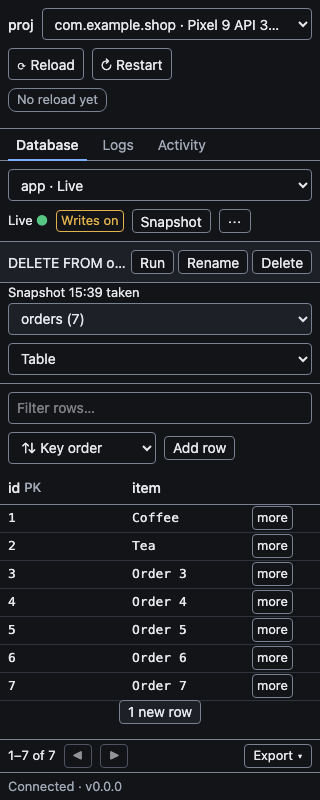
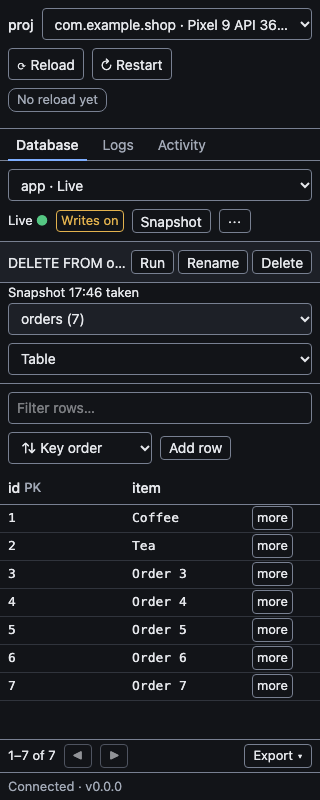
docs(qa): re-verify batch 4 database tab fixes on 0682dec

diff --git a/docs/qa/M3.md b/docs/qa/M3.md
@@ -618,9 +618,43 @@ No new JSON-RPC fixture. The Drift calls had the same shapes as `flutterdeck-dri
 - The Browser pane at 420 px through the tool emulates an Android phone (user agent, touch). There, Cmd/Ctrl+Enter and Cmd/Ctrl+A inserted a line break instead of running. At the pane's own desktop width (Mac user agent) they worked. A real narrow pane on the PM's Mac has a Mac user agent, so this is a tool limit, not a product fault; it was not observed directly.
 - Device picker with two devices (one emulator only), and the iOS simulator (not in this batch's brief).
 
+### Re-run on `0682dec` (2026-10-17)
+
+Same environment and worktree, commit **`0682dec`**, clean tree. Fake mode only (a scratch daemon from `qa-artifacts/M3-batch4/fake-daemon.mjs`, writes on, scratch HOME). No Android run: the fixes are in the dashboard, plus G4 and the fake cap in the daemon. Video: `qa-artifacts/M3-batch4/videos/b4-rerun-fake-mode-15-steps.webm`.
+
+| #    | Check                                                              | Tool                                                                          | Result     | Evidence                                                                                                                                                                                                                                                                                                                                                                              |
+| ---- | ------------------------------------------------------------------ | ----------------------------------------------------------------------------- | ---------- | ------------------------------------------------------------------------------------------------------------------------------------------------------------------------------------------------------------------------------------------------------------------------------------------------------------------------------------------------------------------------------------- |
+| RR1  | Install, build, all gates, e2e                                     | `pnpm install --frozen-lockfile && pnpm build && pnpm check && pnpm test:e2e` | **PASS**   | Exit 0. Vitest **226 files, 3398 tests**. e2e **64 passed**. Log: `rerun-step1.log`.                                                                                                                                                                                                                                                                                                  |
+| RR2  | The developer's 15 steps + toolbar Add row (B)                     | `fake-steps.mjs`                                                              | **PASS**   | All steps pass again. Console: only the two expected 422 refusals (no CSP violation). Activity now also has "Write denied: customers". 320/420/900, light and dark: no sideways scroll, axe 0. Screens `b4-01…b4-18` refreshed.                                                                                                                                                       |
+| RR3  | B4-1 snapshot time                                                 | `probe6.mjs`                                                                  | **PASS**   | `app_flutter/app.sqlite` on first open: badge "Snapshot 17:39", banner "Snapshot from 17:39 — this is a copy, not live."; same after Refresh and after reload. `b4-rr-snapshot-time-420-light.png`.                                                                                                                                                                                   |
+| RR4  | B4-2 focus after Edit, Cancel and Add row                          | `probe4.mjs`, `kbd2.mjs`                                                      | **PASS**   | 420 and 900 px: Edit (Enter or click) → focus on the first field (`id`); form Cancel → back to **Edit**; Add row → first field; its Cancel → back to **Add row**; Escape → panel closed, focus on the grid cell it came from. `b4-rr-kbd-edit-{420,900}-light.png`.                                                                                                                   |
+| RR5  | B4-3 focus not obscured                                            | `probe7.mjs`, `kbd2.mjs`                                                      | **PASS**   | Below 900 px the panel is `aria-modal="true"` and the table area is `inert`: Tab never lands behind the panel (0 obscured stops). At 900 px the panel sits beside the grid (`aria-modal="false"`). See B4-7 for where Tab goes after the panel.                                                                                                                                       |
+| RR6  | axe with the panel open and closed                                 | `kbd2.mjs`                                                                    | **PASS**   | 420 and 900 px: 0 serious or critical issues with the panel open and closed, light and dark.                                                                                                                                                                                                                                                                                          |
+| RR7  | B4-4 CSP on select-all + typing                                    | `csp-probe.mjs`, `sqledit.mjs`, `csp-insert.mjs`                              | **PARTLY** | Typing keys over a selection: **0 violations** (Playwright). Text that arrives with no keydown still triggers one `style-src-attr` violation: `keyboard.insertText` after Cmd/Ctrl+A (the path used by IME commit and dictation), and the Claude Desktop Browser pane's typing tool (2 violations). The text is still right. See B4-4b.                                               |
+| RR8  | SQL editor typing, undo, redo, paste, cut after the keydown change | `sqledit.mjs`                                                                 | **PASS**   | Type; select all + type replaces; one Undo restores the old text, Redo reapplies; Shift+Arrow selection + type; select all + Backspace → empty (placeholder shows); Undo; select all + paste (clipboard) replaces, Undo restores; select all + cut empties the editor and fills the clipboard, paste puts it back. Run after the edits: "1 row in 0 ms"; no U+00A0; no console error. |
+| RR9  | B4-5 click anywhere in the SQL box                                 | `probe-sqlclick.mjs`                                                          | **PASS**   | Click 10 px above the bottom of the 96 px box → `cm-content` focused. Also in the Browser pane.                                                                                                                                                                                                                                                                                       |
+| RR10 | Row details follows the row; never stuck on "Loading row…"         | `kbd2.mjs`                                                                    | **PASS**   | Sorted id ▼, opened id 19; 11 s later (2 new rows above it) the panel still shows "orders: id 19", id value 19, no "Loading row…".                                                                                                                                                                                                                                                    |
+| RR11 | B4-6 new-rows chip adds up                                         | `chip.mjs`                                                                    | **PASS**   | 28 rows, end off screen: "1 new row" → "2 new rows" → "3 new rows"; clicking the chip scrolls to the end and the chip goes. `b4-rr-chip-420-light.png`.                                                                                                                                                                                                                               |
+| RR12 | G4 refused edit is logged                                          | `kbd2.mjs`                                                                    | **PASS**   | Trigger refusal on customers → Activity "Write denied: customers". `b4-rr-activity-denied-420-light.png`.                                                                                                                                                                                                                                                                             |
+| RR13 | N1 failed count                                                    | `n1.mjs` (Playwright answers the count query with 500)                        | **PASS**   | Footer "1–34 of ?", grid `aria-rowcount="-1"`, Export enabled and gives `orders.csv`. `b4-rr-count-failed-420-light.png`.                                                                                                                                                                                                                                                             |
+| RR14 | Fake cap 500                                                       | source + PM run                                                               | **PASS**   | `MAX_FAKE_ORDERS = 500`; orders kept arriving during the 3-minute PM run. PM step 4 text updated.                                                                                                                                                                                                                                                                                     |
+| RR15 | PM check (batch 4), re-run as written                              | clean shell (`env -i`) + Browser pane                                         | **PASS**   | Steps 1–16 pass. Run at the pane's desktop width (1024 px, Mac user agent). Step 12 text changed to "Click in the editor" (B4-5 fixed). Step 14 text changed: orders added since the snapshot are listed first, then "~ changed id 1". Step 4 says 500. The console showed the B4-4b violation in step 12.                                                                            |
+
+#### B4-4b (minor) — CSP violation remains when text replaces a selection without a keydown
+
+- **Observed:** after Cmd/Ctrl+A in the SQL editor, text inserted without a keydown (`insertText`, which IME composition and dictation use) logs one `style-src-attr` violation. Typed keys no longer do. The text is right and runs.
+- **Repro:** `node qa-artifacts/M3-batch4/csp-insert.mjs` (fake daemon running) → "keyboard.type over selection: violations 0", "insertText over selection: violations 1". Also in the Claude Desktop Browser pane with its typing tool.
+- **Impact:** a console error only; nothing blocked that the editor needs. Fails closed.
+
+#### B4-7 (minor, accessibility) — Tab leaves the modal panel for the page header below 900 px
+
+- **Observed:** at 420 px the row details panel is `aria-modal="true"` and the table area is `inert`, but Tab from the last panel button (Add row) moves to "Skip to logs", the App picker, Reload and Restart in the header, which are not inert. A screen reader treats them as hidden while keyboard focus can reach them.
+- **Expected:** either focus stays inside the modal panel until it closes, or the panel is not `aria-modal`.
+- **Repro:** fake mode, 420 px, open a row, Tab 11 times → focus on "Skip to logs" (`kbd2.mjs` prints the stops). The header is visible, so focus is not hidden (SC 2.4.11 passes).
+
 ### PM check (batch 4)
 
-PM check: only the IDE breakpoint needs you (D3). These optional steps show the Database tab in Claude Desktop's Browser pane in fake mode. They take about 8 minutes and need no device. QA ran them as written on 2026-10-17.
+PM check: only the IDE breakpoint needs you (D3). These optional steps show the Database tab in Claude Desktop's Browser pane in fake mode. They take about 8 minutes and need no device. QA ran them as written on 2026-10-17 (first on `55a24db`, again on `0682dec`).
 
 Before you start: Node 22.12+ and pnpm installed. Open a new terminal.
 
@@ -654,7 +688,7 @@ Before you start: Node 22.12+ and pnpm installed. Open a new terminal.
    HOME="$QA/home" USERPROFILE="$QA/home" node packages/daemon/dist/main.js --fake --project "$QA/proj" --port 0 &
    ```
 
-   Expected: `project-deck daemon listening on http://127.0.0.1:<port>`. Press Enter to get the prompt back. The fake app adds an order every 5 s and stops at 50, so do steps 5–15 within about 4 minutes.
+   Expected: `project-deck daemon listening on http://127.0.0.1:<port>`. Press Enter to get the prompt back. The fake app adds an order every 5 s and stops at 500 (about 40 minutes).
 
 5. Print the dashboard address.
 
@@ -694,7 +728,7 @@ Before you start: Node 22.12+ and pnpm installed. Open a new terminal.
 
     Expected: three table boxes with a line from orders to customers; the list shows "customer_id → customers.id".
 
-12. Click **SQL**. Click the first line of the editor, type `SELECT count(*) FROM orders` and press Cmd+Enter. Then press Cmd+A, type `DELETE FROM orders` and press Cmd+Enter.
+12. Click **SQL**. Click in the editor, type `SELECT count(*) FROM orders` and press Cmd+Enter. Then press Cmd+A, type `DELETE FROM orders` and press Cmd+Enter.
 
     Expected: first "1 row in N ms" and a number. Then "Only reading queries run here. This one would change data (it deletes rows)." Nothing is deleted.
 
@@ -704,7 +738,7 @@ Before you start: Node 22.12+ and pnpm installed. Open a new terminal.
 
 14. Click **Save** again, then **Run change**. Then click **Diff**.
 
-    Expected: "1 row changed" and Coffee `shipped`. The Diff shows "~ changed id 1" with **status (changed): shipped** (plus "+ added" rows if the fake app added orders).
+    Expected: "1 row changed" and Coffee `shipped`. The Diff counts "N added, 1 changed, 0 removed". The "+ added" rows (orders the fake app added since the snapshot) come first; below them is "~ changed id 1" with **status (changed): shipped**.
 
 15. Click the **Activity** tab.
 
